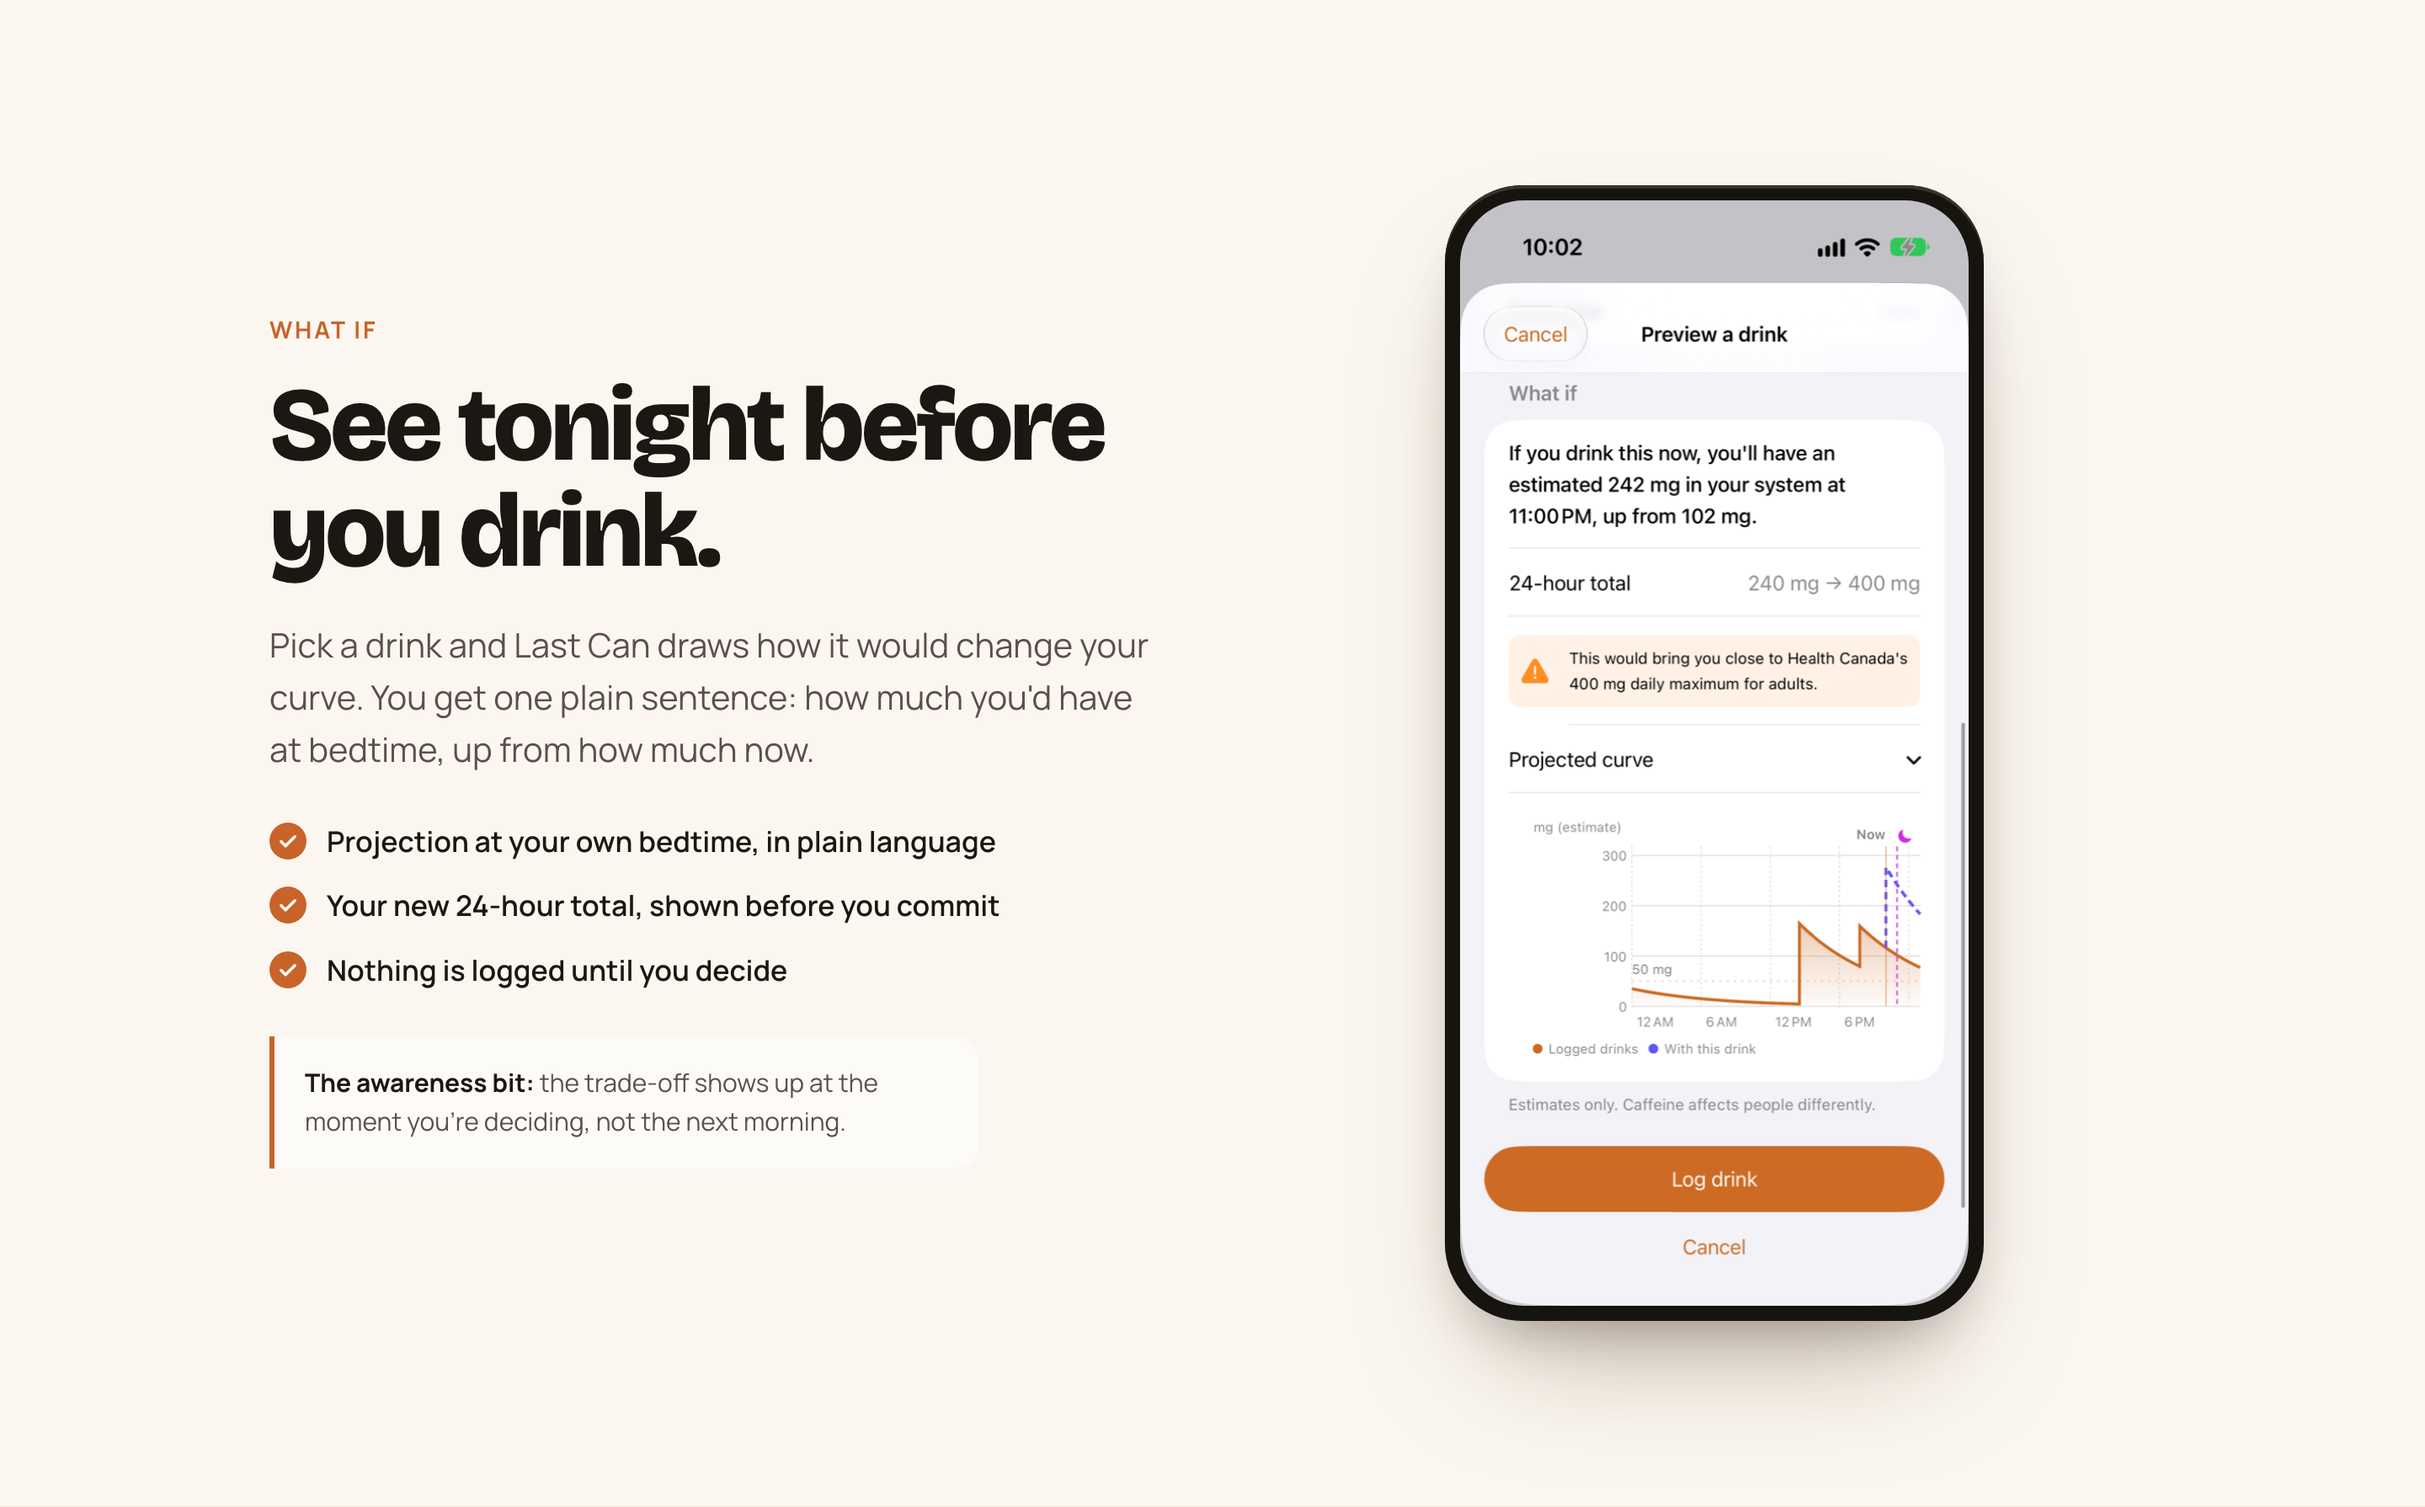
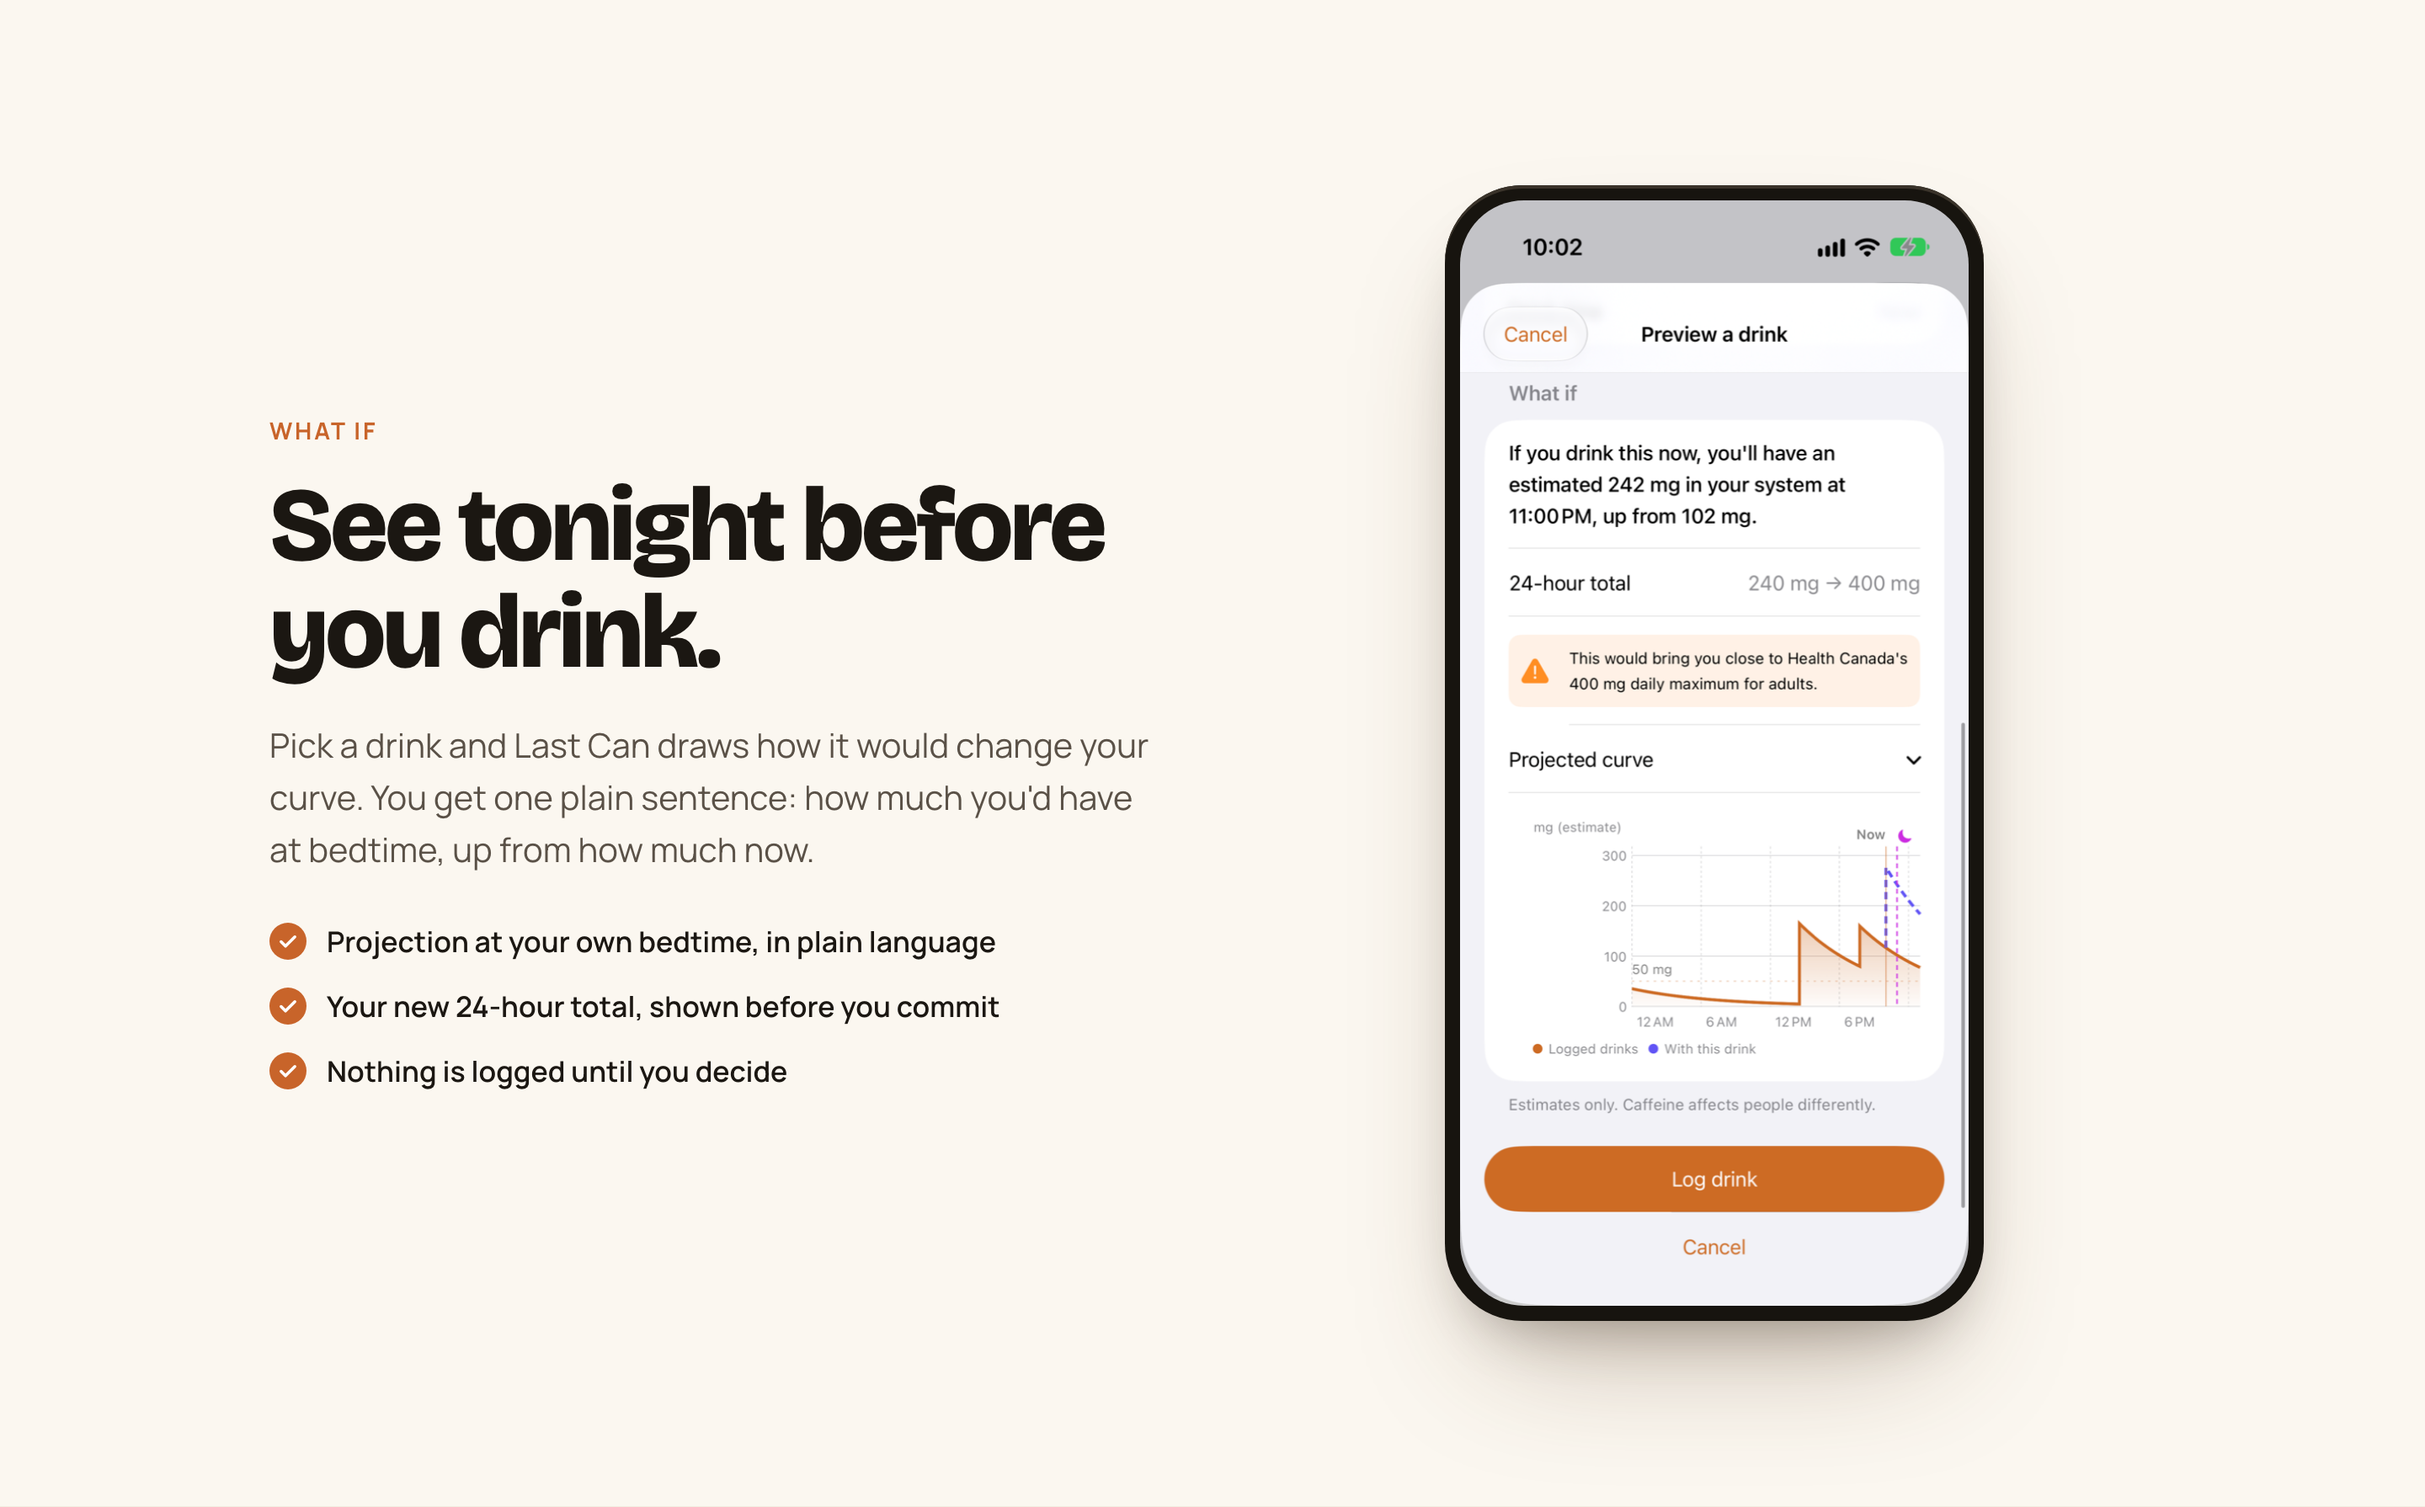
Remove "awareness bit" notes from product page

Changed region(s): [[0.0938, 0.2151, 0.4688, 0.7682]]

diff --git a/product page/index.html b/product page/index.html
@@ -133,11 +133,6 @@
     .kicker { font-size: 14px; font-weight: 800; letter-spacing: .1em; text-transform: uppercase; color: var(--accent); margin-bottom: 14px; }
     h2 { font-size: clamp(36px, 5vw, 62px); line-height: 1.02; font-weight: 800; }
     .sub { font-size: clamp(17px, 1.6vw, 20px); color: var(--ink-2); max-width: 46ch; margin: 20px 0 0; }
-    .why {
-      margin-top: 26px; padding: 16px 18px; border-left: 3px solid var(--accent);
-      background: #fff8; border-radius: 0 14px 14px 0; font-size: 15px; color: var(--ink-2); max-width: 46ch;
-    }
-    .why strong { color: var(--ink); }
     .ticks { list-style: none; padding: 0; margin: 26px 0 0; display: grid; gap: 12px; }
     .ticks li { display: flex; gap: 12px; align-items: flex-start; font-weight: 600; }
     .ticks li::before {
@@ -325,7 +320,6 @@
           <li>Your new 24-hour total, shown before you commit</li>
           <li>Nothing is logged until you decide</li>
         </ul>
-        <p class="why"><strong>The awareness bit:</strong> the trade-off shows up at the moment you're deciding, not the next morning.</p>
       </div>
       <div class="reveal"><div class="phone"><img src="assets/screens/preview.png" width="598" height="1300" loading="lazy" alt="The What if preview: drinking a 160 mg can now would mean about 242 mg at an 11 PM bedtime, up from 102 mg, with a dashed projected curve."></div></div>
     </div>
@@ -337,7 +331,6 @@
         <div class="kicker">Countdown</div>
         <h2>A countdown to a calmer night.</h2>
         <p class="sub">Set a level, say 50 mg, and Last Can counts down to when your estimate drops below it. Log another drink and the timer moves right away. When it ends, you get a notification.</p>
-        <p class="why"><strong>The awareness bit:</strong> "it wore off" becomes a time you can actually see, and plan around.</p>
       </div>
       <div class="reveal"><div class="phone"><img src="assets/screens/today_dark.png" width="598" height="1300" loading="lazy" alt="Today screen in dark mode with a countdown: 6 hours 5 minutes until the estimate falls below 50 mg."></div></div>
     </div>
@@ -349,7 +342,6 @@
         <div class="kicker">Daily limit</div>
         <h2>400 mg, always in view.</h2>
         <p class="sub">Health Canada's daily maximum for healthy adults is 400 mg. Last Can keeps a rolling 24-hour total against it, warns you as you get close, and asks before you log past it.</p>
-        <p class="why"><strong>The awareness bit:</strong> cans, coffee and pre-workout add up quietly. Last Can adds them up out loud.</p>
       </div>
       <div class="gauge-card reveal" id="gauge">
         <div class="gauge-top"><span>Last 24 hours</span><span class="val">240 <small>/ 400 mg</small></span></div>
@@ -386,7 +378,6 @@
         <div class="kicker">Personal half-life</div>
         <h2>Your half-life, not just the average.</h2>
         <p class="sub">Some medications, pregnancy, liver health, age and body size all change how fast caffeine clears. Last Can estimates your half-life from published research and shows exactly what it's based on. Re-evaluate any time.</p>
-        <p class="why"><strong>The awareness bit:</strong> the same can doesn't last the same time in everyone.</p>
       </div>
       <div class="reveal"><div class="phone"><img src="assets/screens/halflife.png" width="598" height="1300" loading="lazy" alt="Half-life result screen showing an estimated 5 hours and what the estimate is based on."></div></div>
     </div>
